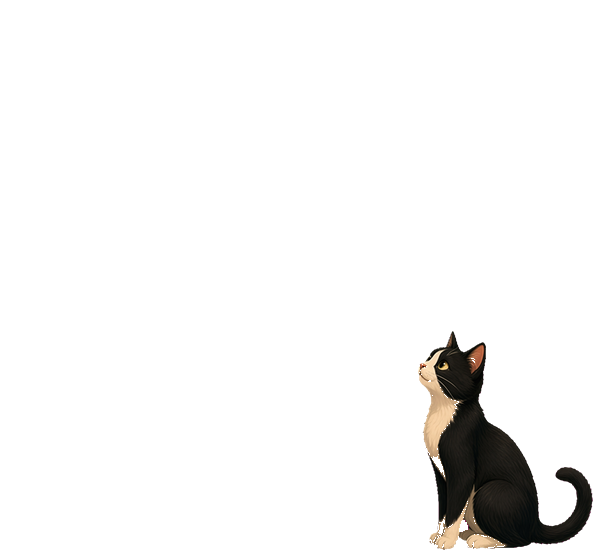
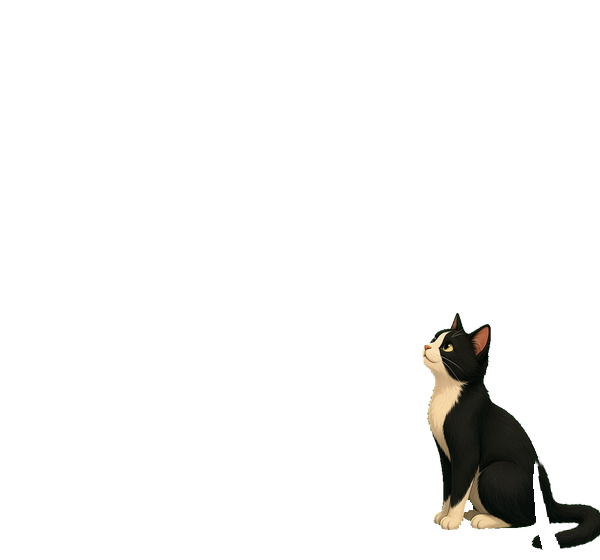
Lock cat bodies so only the tail wags.
Modern and Retro keep the original still pose. Scroll frames
are that same drawing with a modest tail swing, not a new cat.

Changed region(s): [[0.69, 0.5464, 1.0, 1.0]]

diff --git a/components/hero-section.tsx b/components/hero-section.tsx
@@ -4,8 +4,8 @@ import { HeroCtas } from "@/components/hero-ctas";
 
 const HERO_ART = [
   { era: "1980s", still: "/hero/hero-1980s.svg?v=px2", live: "/hero/hero-1980s-live.png?v=px2", cat: "/hero/hero-1980s-cat.svg?v=px2", width: 340, height: 268 },
-  { era: "1990s", still: "/hero/hero-1990s.svg?v=bit16", live: "/hero/hero-1990s-live.png?v=era1", cat: "/hero/hero-1990s-cat.svg?v=full1", catLive: "/hero/hero-1990s-cat-live.png?v=full1", catFrames: 4, width: 320, height: 280 },
-  { era: "modern", still: "/hero/hero-modern-d.svg?v=hands3", live: "/hero/hero-modern-d-live.png?v=kneel0906", cat: "/hero/hero-modern-d-cat.svg?v=full1", catLive: "/hero/hero-modern-d-cat-live.png?v=full1", catFrames: 4, width: 600, height: 560 },
+  { era: "1990s", still: "/hero/hero-1990s.svg?v=bit16", live: "/hero/hero-1990s-live.png?v=era1", cat: "/hero/hero-1990s-cat.svg?v=lock1", catLive: "/hero/hero-1990s-cat-live.png?v=lock1", catFrames: 4, width: 320, height: 280 },
+  { era: "modern", still: "/hero/hero-modern-d.svg?v=hands3", live: "/hero/hero-modern-d-live.png?v=kneel0906", cat: "/hero/hero-modern-d-cat.svg?v=lock1", catLive: "/hero/hero-modern-d-cat-live.png?v=lock1", catFrames: 4, width: 600, height: 560 },
 ] as const;
 
 export function HeroSection() {

diff --git a/app/styles/hero-era-art.css b/app/styles/hero-era-art.css
@@ -1,5 +1,5 @@
 /* Overrides so new era plates win without rewriting hero-plates.css. */
-/* Cache: full-cat frames only, no tail fragments */
+/* Cache: locked-body tail wag, original stills */
 
 :root[data-era="1980s"] .hero-backdrop-photo {
   background-image: none !important;
@@ -142,7 +142,7 @@
 :root[data-era="1990s"] .hero-art-1990s.is-live .hero-art-cat-live img,
 :root[data-era="1990s"] .hero-section.is-live .hero-art-1990s .hero-art-cat-live img,
 :root[data-era="1990s"][data-scroll-live] .hero-art-1990s .hero-art-cat-live img {
-  animation: cat-sheet-4 0.56s steps(4, jump-none) infinite;
+  animation: cat-sheet-4 0.88s steps(4, jump-none) infinite;
 }
 
 :root[data-era="modern"] .hero-art-modern.is-live .hero-art-cat-live img,
